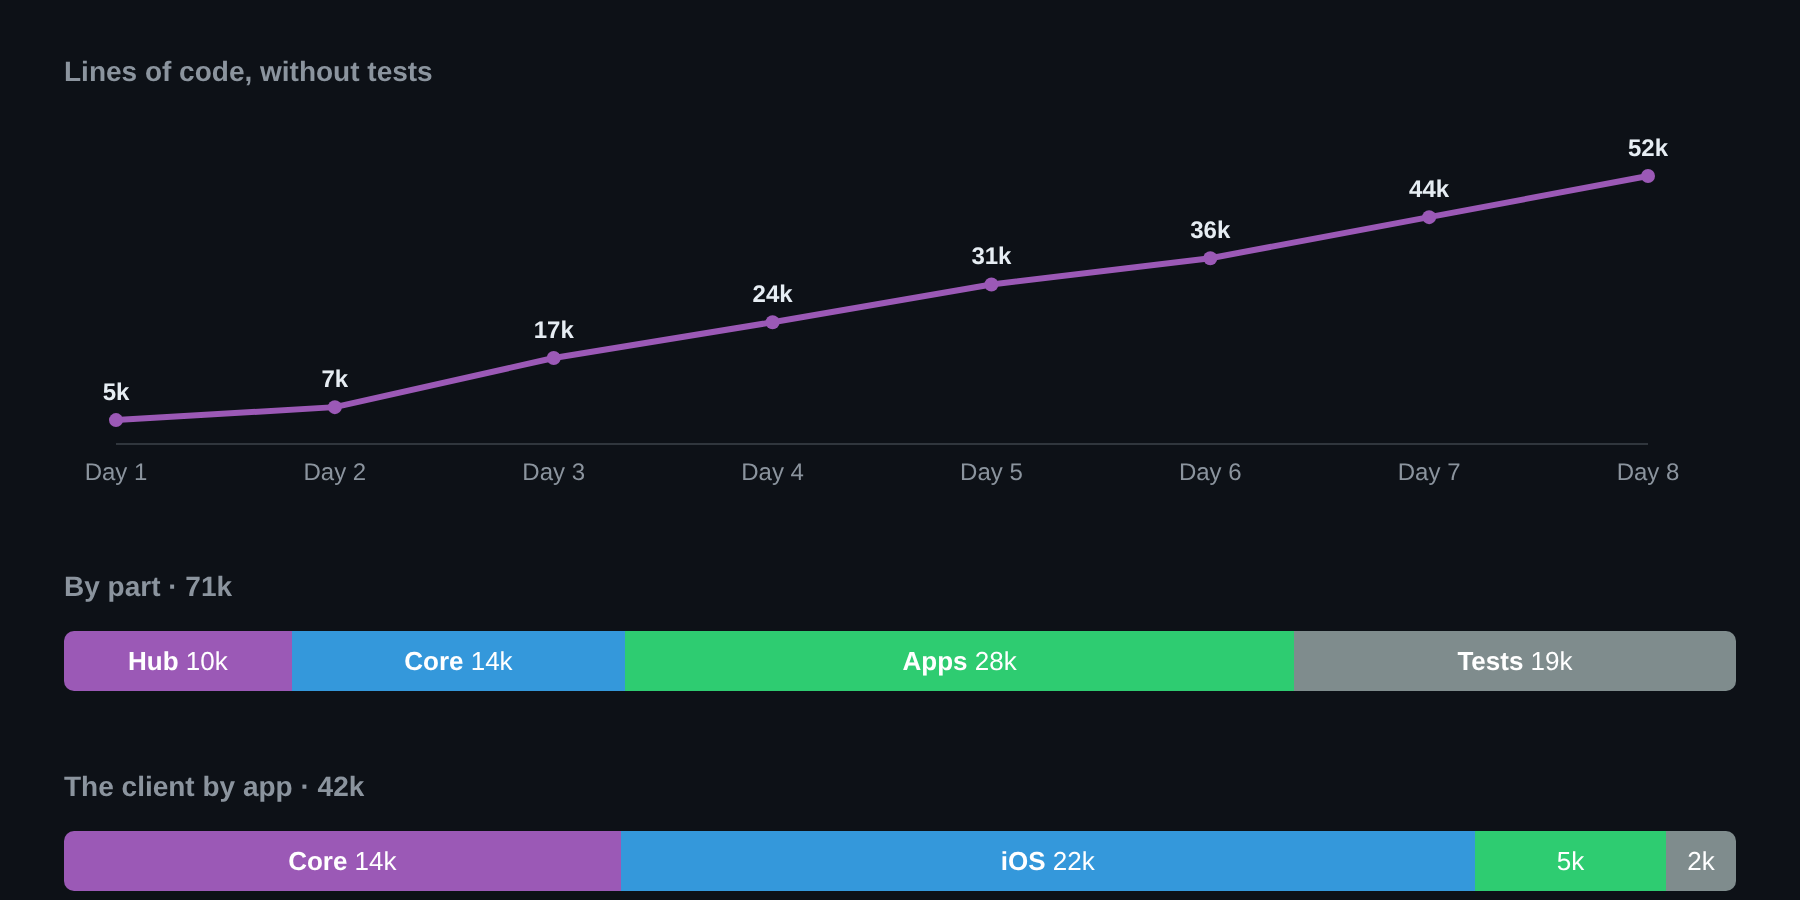
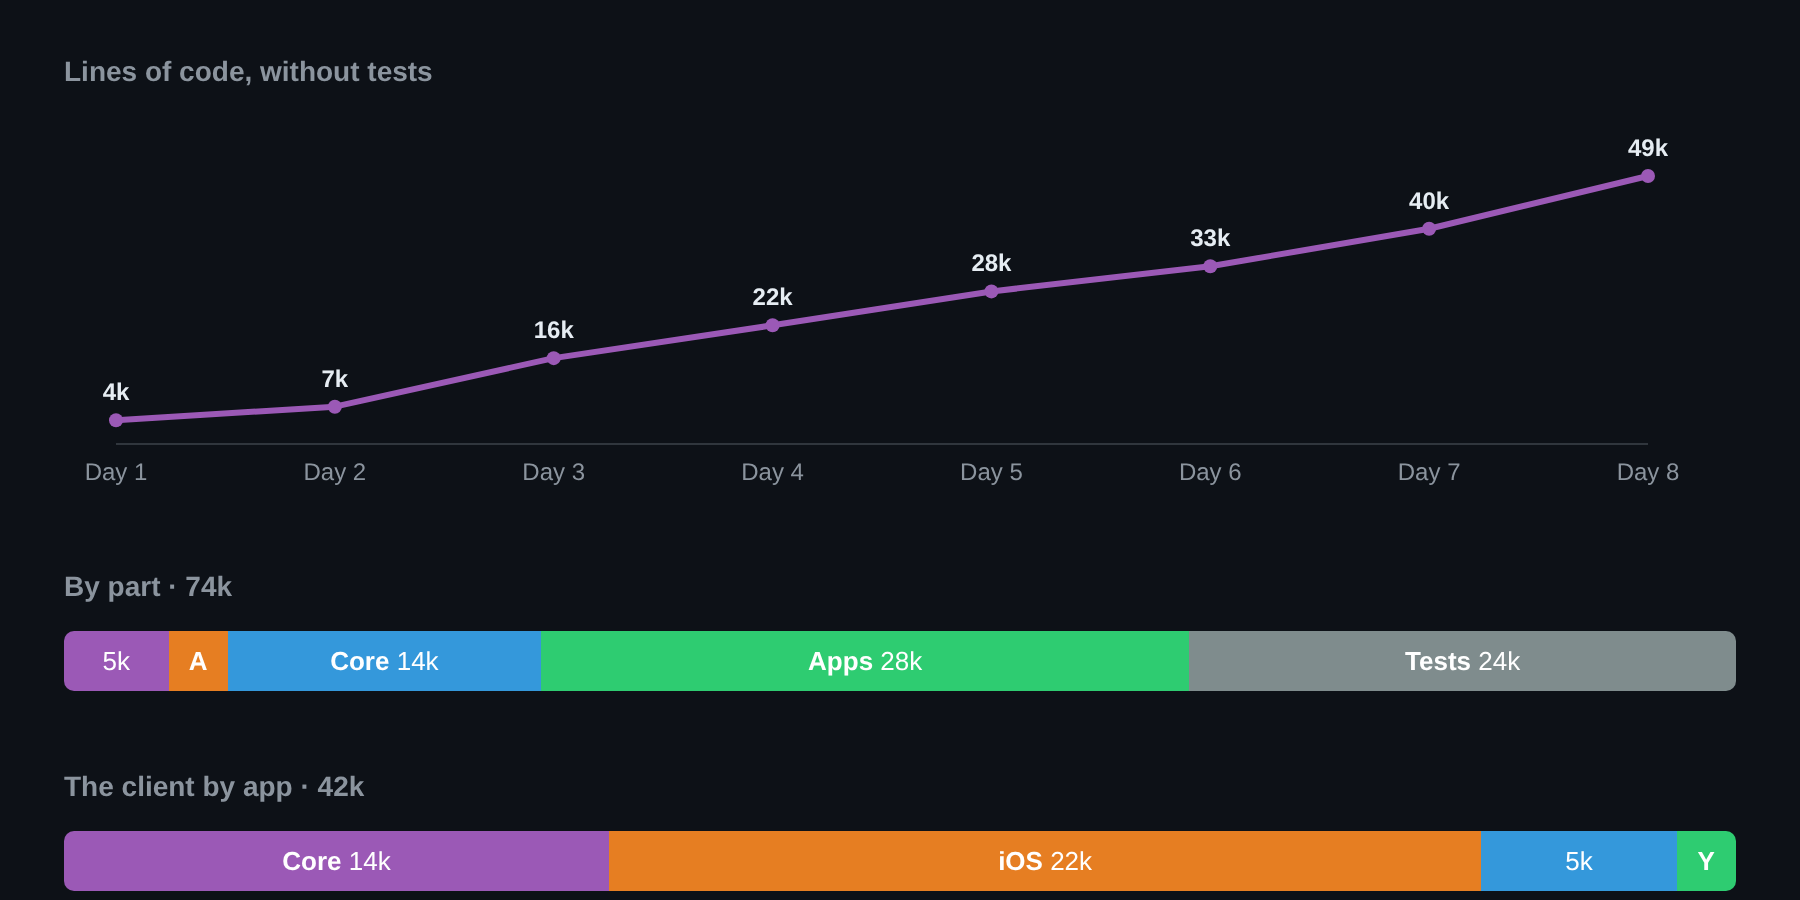
README: Rust tests count as tests, the admin page apart
Each day now counts main's tree as it was: Rust files' lines from
#[cfg(test)] on go to Tests (they were counted as Hub and Core), and
the admin page is its own part.

diff --git a/dev/loc-chart.html b/dev/loc-chart.html
@@ -20,7 +20,7 @@ let s=`<line x1="${L}" x2="${W-R}" y1="${H-B}" y2="${H-B}" stroke="#30363d"/>`;
 s+=`<polyline points="${pts}" fill="none" stroke="#9b59b6" stroke-width="3" stroke-linejoin="round" stroke-linecap="round"/>`;
 D.days.forEach((v,i)=>{s+=`<circle cx="${x(i)}" cy="${y(v)}" r="3.5" fill="#9b59b6"/><text x="${x(i)}" y="${H-8}" text-anchor="middle">Day ${i+1}</text><text x="${x(i)}" y="${y(v)-10}" text-anchor="middle" style="fill:#e6edf3;font-weight:600">${k(v)}</text>`});
 document.getElementById('line').innerHTML=s;
-const C=['#9b59b6','#3498db','#2ecc71','#7f8c8d'];
+const C=['#9b59b6','#e67e22','#3498db','#2ecc71','#7f8c8d'];
 function share(bar,leg,h,title,items){const t=items.reduce((a,[,v])=>a+v,0);
  document.getElementById(h).textContent=`${title} · ${k(t)}`;
  // The label centred in its part; shortened until it fits (about 8 px per character): name and size, the size

diff --git a/dev/loc-chart.py b/dev/loc-chart.py
@@ -4,13 +4,10 @@
 Writes the numbers into dev/loc-chart.html and renders it with headless Chromium to dev/loc-chart.png, which the README
 shows: a line of lines per day without tests, and today's code by part and the client by app as shares.
 
-Follow main's first parents, diffing merges against their first parent so merged
-code counts exactly once. Disable rename detection: moves between languages must
-subtract the old extension and add the new one. Binary files are skipped.
-Counts include blank lines and comments, not just executable statements. Test code
-(tests/ directories and test-named files) is counted apart, as Tests.
-Committer dates are UTC; clock regressions are clamped to the preceding day.
-Only committed main history counts, never the working tree.
+Each day counts the tree of main's last commit that day (first parents, UTC, clock regressions clamped): lines of
+source per part (Hub, Admin, Core, Apps), blanks and comments included, binary files skipped. Test code counts apart
+as Tests: files in test directories or named as tests, and in Rust files everything from `#[cfg(test)]` on. Only
+committed main history counts, never the working tree.
 """
 from datetime import datetime, timedelta, timezone
 from pathlib import Path
@@ -20,7 +17,7 @@ import subprocess
 ROOT = Path(__file__).resolve().parents[1]
 # By part of the project: the server (hub, admin page), the shared core, the apps (iOS, Android, YoGPT), tests (tests/,
 # fuzz/ and test files anywhere). Development scripts (dev/ and the like) are not counted.
-KINDS = ("Hub", "Core", "Apps", "Tests")
+KINDS = ("Hub", "Admin", "Core", "Apps", "Tests")
 COLORS = ("#bc7540", "#ad62be", "#468bc2", "#589663")
 EXTENSIONS = {".rs": "Rust", ".swift": "Swift", ".kt": "Kotlin", ".kts": "Kotlin"}
 OTHER = {".py", ".sh", ".bash", ".c", ".h", ".cpp", ".hpp", ".m", ".mm",
@@ -32,7 +29,7 @@ def part(path):
     if is_test(path):
         return "Tests"
     top = path.split("/", 1)[0]
-    return {"hub": "Hub", "admin": "Hub", "core": "Core", "app": "Apps"}.get(top)
+    return {"hub": "Hub", "admin": "Admin", "core": "Core", "app": "Apps"}.get(top)
 
 
 def is_test(path):
@@ -47,34 +44,48 @@ def git(*args):
     return subprocess.check_output(["git", "-C", str(ROOT), *args])
 
 
-def history():
-    # NUL delimiters preserve spaces, tabs and newlines in tracked filenames.
-    raw = git("log", "main", "--first-parent", "--reverse", "--diff-merges=first-parent",
-              "--root", "--no-renames", "--numstat", "-z", "--format=%x00COMMIT %ct%x00")
+def counts_at(commit):
+    """Lines per part in the tree of one commit. A Rust file's lines from its `#[cfg(test)]` on are tests, as
+    are files in test directories."""
     totals = dict.fromkeys(KINDS, 0)
-    daily = {}
+    names = [n.decode("utf-8", "surrogateescape") for n in git("ls-tree", "-r", "-z", "--name-only", commit).split(b"\0") if n]
+    wanted = [n for n in names if Path(n).suffix.lower() in EXTENSIONS or Path(n).suffix.lower() in OTHER]
+    wanted = [n for n in wanted if part(n)]
+    if not wanted:
+        return totals
+    blobs = subprocess.run(["git", "-C", str(ROOT), "cat-file", "--batch"], check=True, capture_output=True,
+                           input="".join(f"{commit}:{n}\n" for n in wanted).encode()).stdout
+    at = 0
+    for name in wanted:
+        header_end = blobs.index(b"\n", at)
+        size = int(blobs[at:header_end].split()[2])
+        body = blobs[header_end + 1:header_end + 1 + size]
+        at = header_end + 1 + size + 1
+        if b"\0" in body[:8000]:
+            continue
+        lines = body.split(b"\n")
+        kind = part(name)
+        if kind != "Tests" and name.endswith(".rs"):
+            cut = next((i for i, line in enumerate(lines) if line.strip() == b"#[cfg(test)]"), len(lines))
+            totals[kind] += cut
+            totals["Tests"] += len(lines) - cut
+        else:
+            totals[kind] += len(lines)
+    return totals
+
+
+def history():
+    """The parts' lines at the last commit of each day on main (UTC days, clock regressions clamped)."""
+    raw = git("log", "main", "--first-parent", "--reverse", "--format=%H %ct").decode().split()
+    last = {}
     day = None
-    for token in raw.split(b"\0"):
-        token = token.lstrip(b"\n")
-        if token.startswith(b"COMMIT "):
-            if day is not None:
-                daily[day] = totals.copy()
-            stamp = int(token.split()[1])
-            current = datetime.fromtimestamp(stamp, timezone.utc).date()
-            day = max(day, current) if day else current
-        elif token:
-            added, removed, name = token.split(b"\t", 2)
-            if added == b"-" or removed == b"-":
-                continue
-            path = name.decode("utf-8", "surrogateescape")
-            ext = Path(path).suffix.lower()
-            kind = part(path) if (ext in EXTENSIONS or ext in OTHER) else None
-            if kind:
-                totals[kind] += int(added) - int(removed)
-    if day is None:
+    for commit, stamp in zip(raw[::2], raw[1::2]):
+        current = datetime.fromtimestamp(int(stamp), timezone.utc).date()
+        day = max(day, current) if day else current
+        last[day] = commit
+    if not last:
         raise SystemExit("main has no commits")
-    daily[day] = totals.copy()
-    return sorted(daily.items())
+    return [(d, counts_at(c)) for d, c in sorted(last.items())]
 
 
 # Today's client by app, tests not counted.
@@ -94,7 +105,10 @@ def app_counts():
         if app:
             blob = git("show", f"main:{path}")
             if b"\0" not in blob[:8000]:
-                counts[app] += blob.count(b"\n")
+                lines = blob.split(b"\n")
+                if path.endswith(".rs"):  # a Rust file's tests start at #[cfg(test)]
+                    lines = lines[:next((i for i, l in enumerate(lines) if l.strip() == b"#[cfg(test)]"), len(lines))]
+                counts[app] += len(lines)
     return counts
 
 
